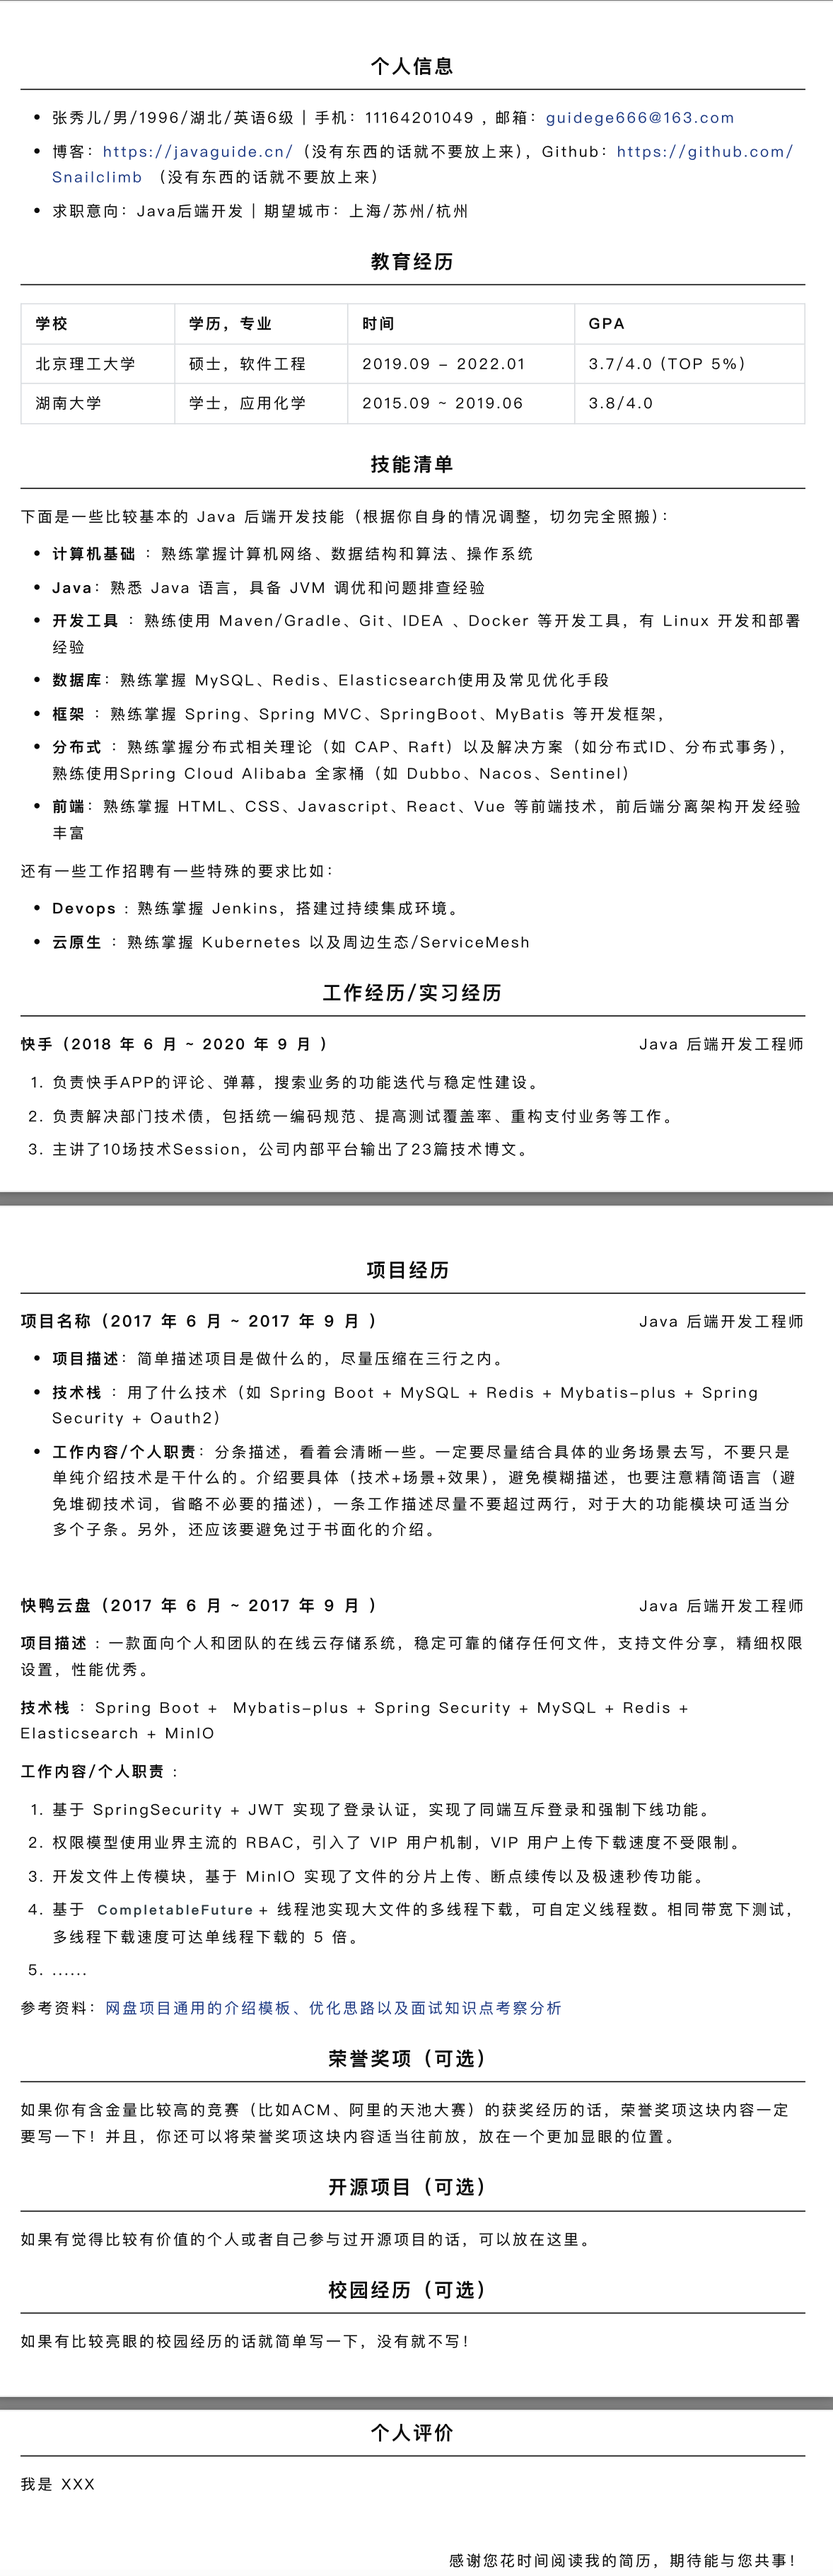
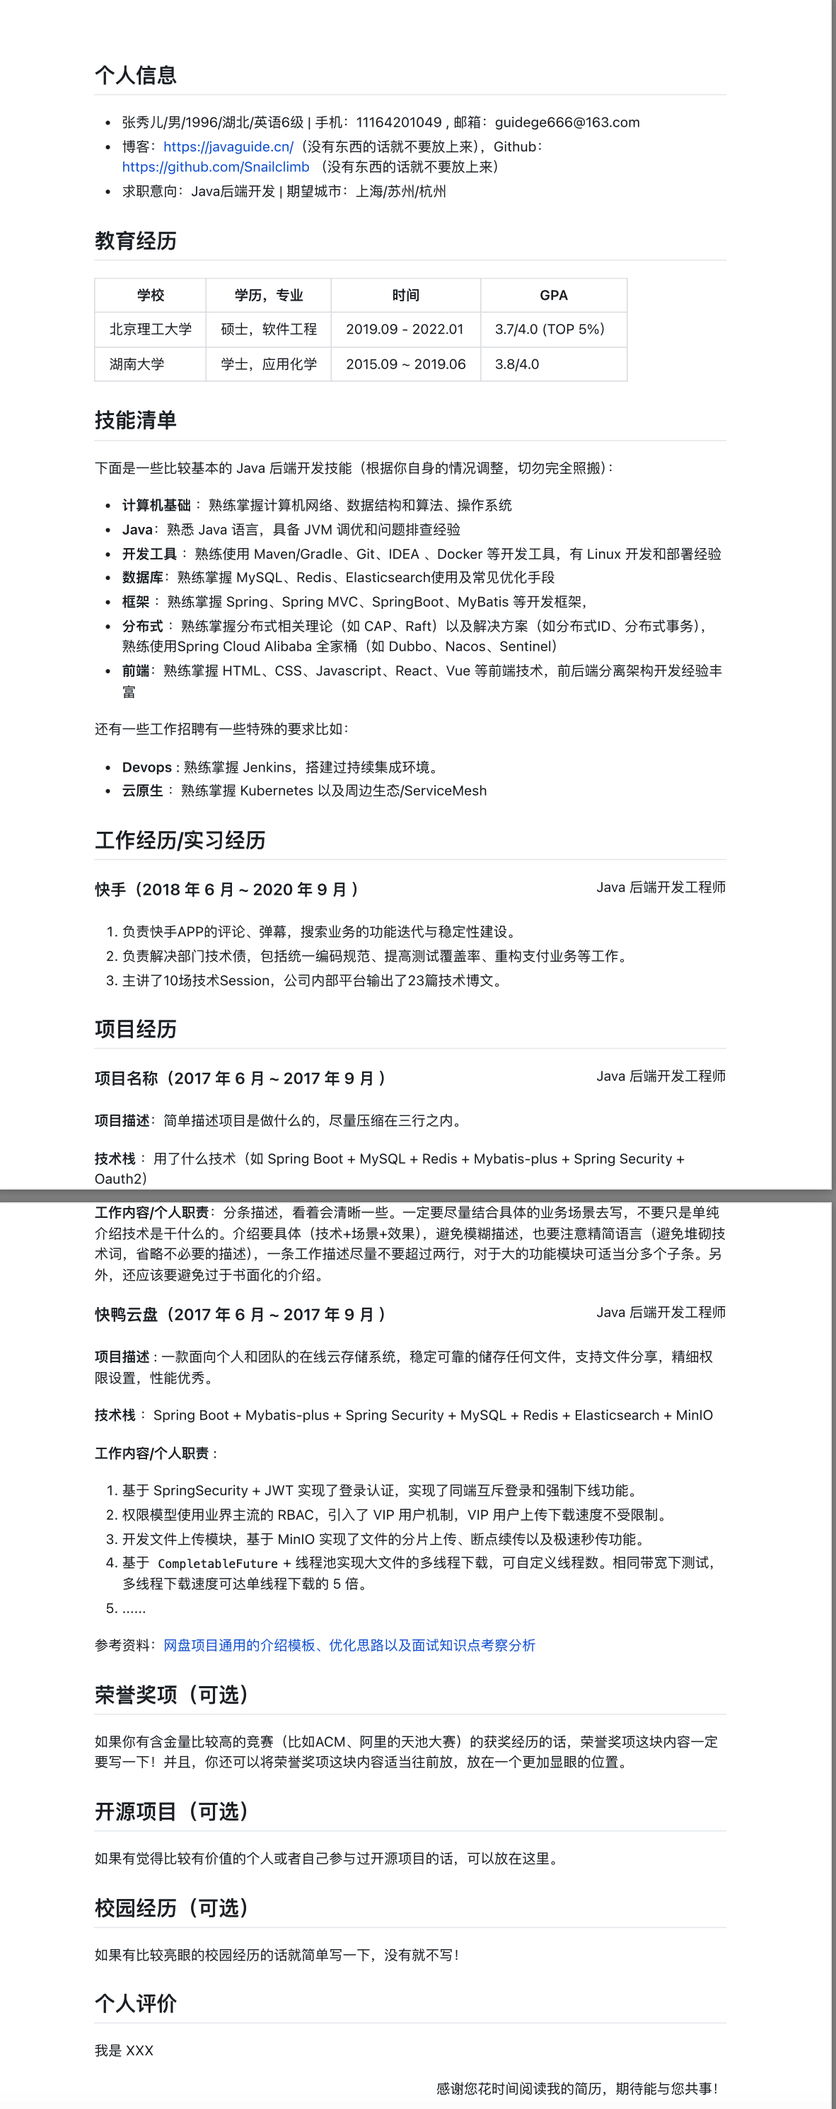
修正样式

Changed region(s): [[0.0, 0.0, 1.0, 1.0], [0.8862, 0.6237, 0.9474, 0.6549], [0.8862, 0.2807, 0.9168, 0.3119]]

diff --git a/resume-template.md b/resume-template.md
@@ -31,10 +31,9 @@
 ## 工作经历/实习经历
 
 <div style="display: flex; justify-content: space-between;">
-  <div><strong>快手（2018 年 6 月 ~ 2020 年 9 月 ）</strong></div>
+  <div style="font-size: 15px;"><strong>快手（2018 年 6 月 ~ 2020 年 9 月 ）</strong></div>
   <div>Java 后端开发工程师</div>
 </div>
-
 1. 负责快手APP的评论、弹幕，搜索业务的功能迭代与稳定性建设。
 2. 负责解决部门技术债，包括统一编码规范、提高测试覆盖率、重构支付业务等工作。
 3. 主讲了10场技术Session，公司内部平台输出了23篇技术博文。
@@ -47,10 +46,11 @@
   <div style="font-size: 15px;"><strong>项目名称（2017 年 6 月 ~ 2017 年 9 月 ）</strong></div>
   <div>Java 后端开发工程师</div>
 </div>
+**项目描述**：简单描述项目是做什么的，尽量压缩在三行之内。
 
-- **项目描述**：简单描述项目是做什么的，尽量压缩在三行之内。
-- **技术栈** ：用了什么技术（如 Spring Boot + MySQL + Redis + Mybatis-plus + Spring Security + Oauth2）
-- **工作内容/个人职责**：分条描述，看着会清晰一些。一定要尽量结合具体的业务场景去写，不要只是单纯介绍技术是干什么的。介绍要具体（技术+场景+效果），避免模糊描述，也要注意精简语言（避免堆砌技术词，省略不必要的描述），一条工作描述尽量不要超过两行，对于大的功能模块可适当分多个子条。另外，还应该要避免过于书面化的介绍。
+**技术栈** ：用了什么技术（如 Spring Boot + MySQL + Redis + Mybatis-plus + Spring Security + Oauth2）
+
+**工作内容/个人职责**：分条描述，看着会清晰一些。一定要尽量结合具体的业务场景去写，不要只是单纯介绍技术是干什么的。介绍要具体（技术+场景+效果），避免模糊描述，也要注意精简语言（避免堆砌技术词，省略不必要的描述），一条工作描述尽量不要超过两行，对于大的功能模块可适当分多个子条。另外，还应该要避免过于书面化的介绍。
 
 
 

diff --git a/README.md b/README.md
@@ -1,14 +1,28 @@
-# typora-markdown-resume
+这是一个 Markdown 版本的简历模板，可以拿来参考或者直接使用。
 
-自定义 CSS 简洁大方的 Markdown 简历模板。具体实现效果如下：
+**效果如下**：
 
 <img src="./media/overview.png" style="zoom:50%;" />
 
 ## 如何使用？
 
-**1)下载 [Typora](https://typora.io/)**
+由于现在 Typora 需要收费，因此很多人现在已经不用 Typora了。这里个人建议选择其他在线 Markdown 简历排版工具，然后结合我提供的简历模板去导出一份适合自己的简历。
 
-**2)将文件夹下的 `resume.css`移动到 Typora 自带的主题文件夹**
+例如，**https://resumd.t9t.io/** 这个在线排版工具。
+
+直接将 Markdown 格式的简历内容复制过去，选择 “Github 主题”，然后下载 PDF 格式即可。
+
+![](./media/resumd.t9t.io.png)
+
+**https://mdnice.com/** 这种 Markdown 排版工具也可以，但需要自己调整一下正文字体大小。
+
+![](./media/mdince.png)
+
+如果你有 Typora 的话，也可以按照下面的方式到处简历。
+
+**1、下载 [Typora](https://typora.io/)**
+
+**2、将文件夹下的 `resume.css`移动到 Typora 自带的主题文件夹**
 
 ![](./media/resume-template-setting-1.png)
 
@@ -16,20 +30,23 @@
 
 ![](./media/resume-template-setting-3.png)
 
-**3) 打开 `resume-template.md`，然后选择我们的自定义主题即可**
+**3、 打开 `resume-template.md`，然后选择我们的自定义主题即可**
 
 自定义主题添加完之后，重启 Typora 你就可以看到我们自定义的主题了。
 
 ![](./media/custome-resume-theme.png)
 
-**4)导出 HTML**
+**4、导出 HTML**
 
 ![](./media/resume-template-setting-4.png)
 
 建议导出 HTML，直接导出 PDF 会出现一些小问题。
 
-**5）本地打开 HTML，然后使用 Ctrl+P(Win)/Command+P（Mac） 将 HTML 另存为 PDF。**
+**5、本地打开 HTML，然后使用 Ctrl+P(Win)/Command+P（Mac） 将 HTML 另存为 PDF。**
 
 不要勾选页眉页脚。
 
 ![](media/resume-template-setting-5.png)
+
+
+
